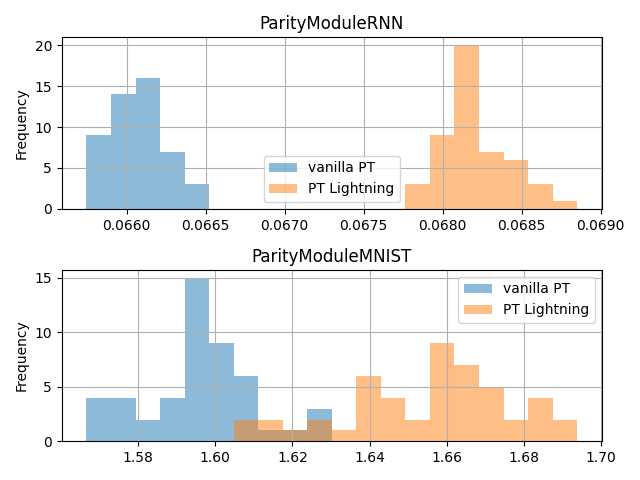
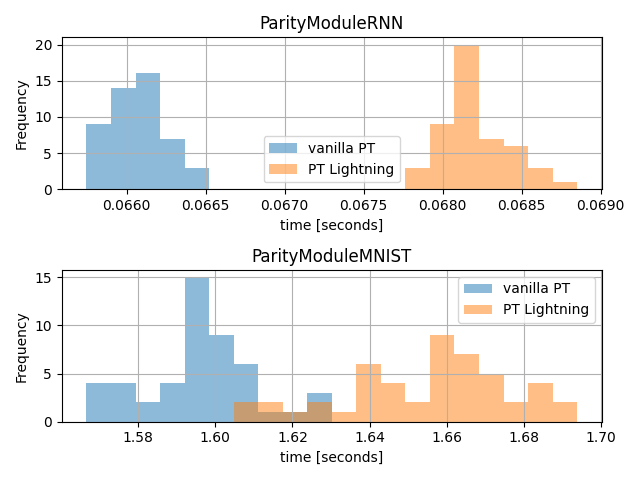
xlabel

diff --git a/benchmarks/generate_comparison.py b/benchmarks/generate_comparison.py
@@ -41,7 +41,15 @@ def _main():
             df_time /= NUM_RUNS
             df_time.to_csv(os.path.join(PATH_HERE, f'dump-times_{cls_model.__name__}.csv'))
         # todo: add also relative X-axis ticks to see both: relative and absolute time differences
-        df_time.plot.hist(ax=axarr[i], bins=20, alpha=0.5, title=cls_model.__name__, legend=True, grid=True)
+        df_time.plot.hist(
+            ax=axarr[i],
+            bins=20,
+            alpha=0.5,
+            title=cls_model.__name__,
+            legend=True,
+            grid=True,
+        )
+        axarr[i].set(xlabel='time [seconds]')
 
     path_fig = os.path.join(PATH_HERE, f'figure-parity-times{FIGURE_EXTENSION}')
     fig.tight_layout()

diff --git a/docs/source/trainer.rst b/docs/source/trainer.rst
@@ -1718,14 +1718,3 @@ The metrics sent to the progress bar.
 
     progress_bar_metrics = trainer.progress_bar_metrics
     assert progress_bar_metrics['a_val'] == 2
-
-
-Benchmark with vanilla PyTorch
-------------------------------
-
-We have set regular benchmarking against PyTorch vanilla training loop on with RNN and simple MNIST classifier as per of out CI.
-In average for simple MNIST CNN classifier we are only about 0.06s slower per epoch, see detail chart bellow.
-
-.. figure:: _images/benchmarks/figure-parity-times.png
-   :alt: Speed parity to vanilla PT
-   :width: 500

diff --git a/docs/source/benchmarking.rst b/docs/source/benchmarking.rst
@@ -1,0 +1,14 @@
+Benchmark with vanilla PyTorch
+==============================
+
+In this section we set grounds for comparison between vanilla PyTorch and PT Lightning for most common scenarios.
+
+Time comparison
+---------------
+
+We have set regular benchmarking against PyTorch vanilla training loop on with RNN and simple MNIST classifier as per of out CI.
+In average for simple MNIST CNN classifier we are only about 0.06s slower per epoch, see detail chart bellow.
+
+.. figure:: _images/benchmarks/figure-parity-times.png
+   :alt: Speed parity to vanilla PT
+   :width: 500

diff --git a/docs/source/index.rst b/docs/source/index.rst
@@ -24,6 +24,7 @@ PyTorch Lightning Documentation
    style_guide
    performance
    Lightning project template<https://github.com/PyTorchLightning/pytorch-lightning-conference-seed>
+   benchmarking
 
 
 .. toctree::
